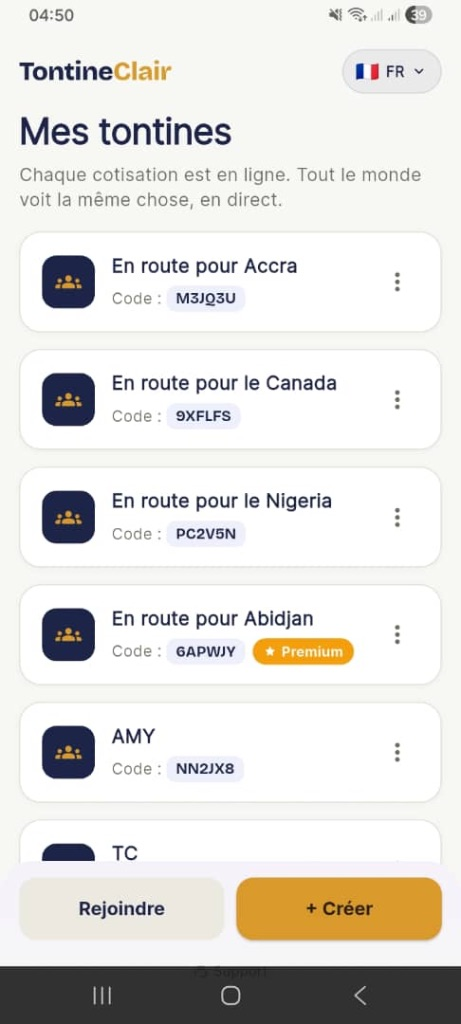
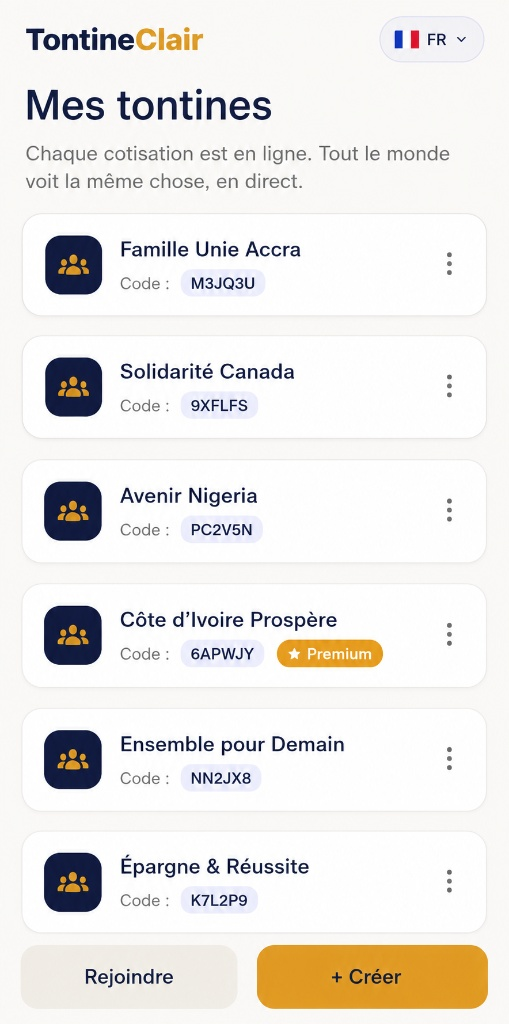
fix: nom TontineClair collé navbar + vrais screenshots app (7 captures réelles)

diff --git a/index.html b/index.html
@@ -52,8 +52,7 @@
 ══════════════════════════════════════ -->
 <nav class="navbar" id="navbar">
   <a href="#" class="nav-logo">
-    <img src="assets/images/logo_tc_small.png" alt="TontineClair" class="nav-logo-img">
-    Tontine<span>Clair</span>
+    <img src="assets/images/logo_tc_small.png" alt="TontineClair" class="nav-logo-img"><span class="nav-brand-name">Tontine<span class="nav-brand-clair">Clair</span></span>
   </a>
 
   <div class="nav-links" id="navLinks">
@@ -227,17 +226,17 @@
     <div class="phone-card">
       <div class="phone-mockup">
         <div class="phone-top-bar"></div>
-        <img src="assets/images/screen7_dashboard_premium.png" alt="Dashboard Premium" loading="lazy">
+        <img src="assets/images/screen2_detail_tontine.png" alt="Détail tontine Premium" loading="lazy">
       </div>
-      <span class="phone-label">🏆 Dashboard tontine Premium</span>
+      <span class="phone-label">🏆 Détail tontine Premium</span>
     </div>
 
     <div class="phone-card">
       <div class="phone-mockup">
         <div class="phone-top-bar"></div>
-        <img src="assets/images/screen6_ordre_passage.png" alt="Ordre de passage" loading="lazy">
+        <img src="assets/images/screen7_modules.png" alt="Modules de gestion" loading="lazy">
       </div>
-      <span class="phone-label">🔄 Ordre de passage & cagnotte</span>
+      <span class="phone-label">🔄 Modules & ordre de passage</span>
     </div>
 
     <div class="phone-card">
@@ -259,7 +258,7 @@
     <div class="phone-card">
       <div class="phone-mockup">
         <div class="phone-top-bar"></div>
-        <img src="assets/images/screen2_caisse.png" alt="Caisse commune" loading="lazy">
+        <img src="assets/images/screen5_caisse.png" alt="Caisse commune" loading="lazy">
       </div>
       <span class="phone-label">🏦 Caisse commune en direct</span>
     </div>
@@ -267,7 +266,7 @@
     <div class="phone-card">
       <div class="phone-mockup">
         <div class="phone-top-bar"></div>
-        <img src="assets/images/screen5_audit.png" alt="Journal d'audit" loading="lazy">
+        <img src="assets/images/screen6_audit.png" alt="Journal d'audit" loading="lazy">
       </div>
       <span class="phone-label">📜 Journal d'audit horodaté</span>
     </div>

diff --git a/style.css b/style.css
@@ -62,6 +62,8 @@ img { max-width: 100%; display: block; }
   text-decoration: none; color: inherit;
 }
 .nav-logo span { color: var(--or); }
+.nav-brand-name { display: inline-block; white-space: nowrap; }
+.nav-brand-clair { color: var(--or); }
 .nav-logo-icon {
   width: 36px; height: 36px;
   background: var(--or);